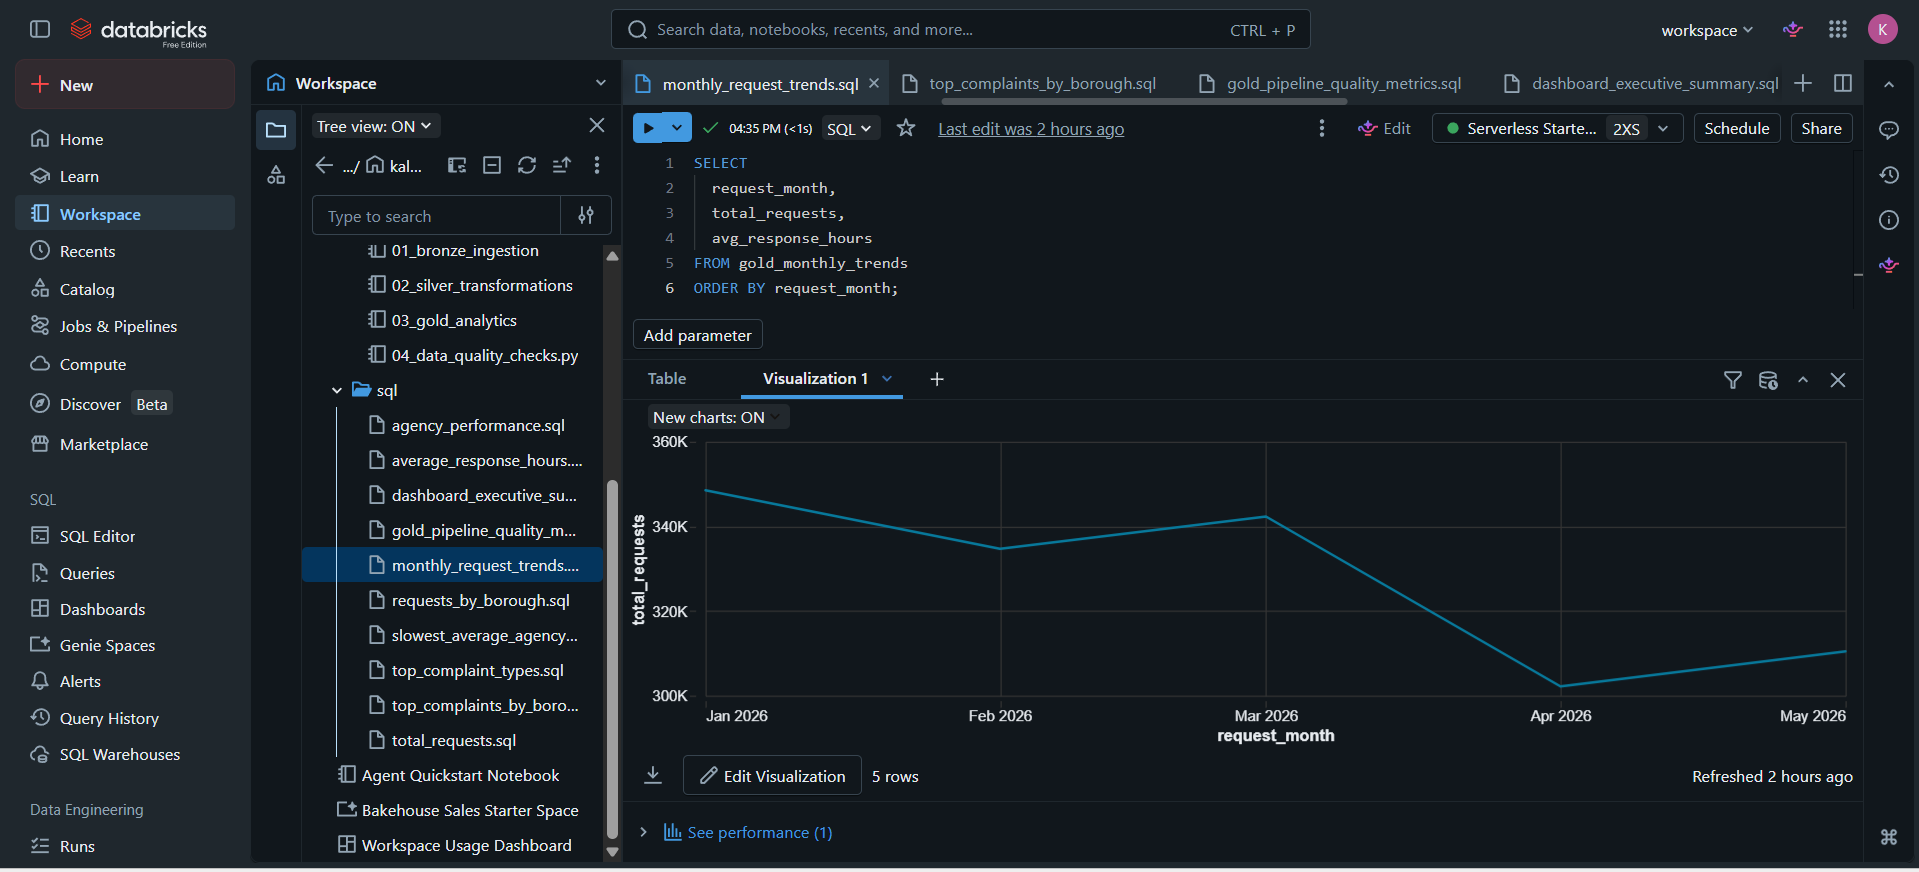
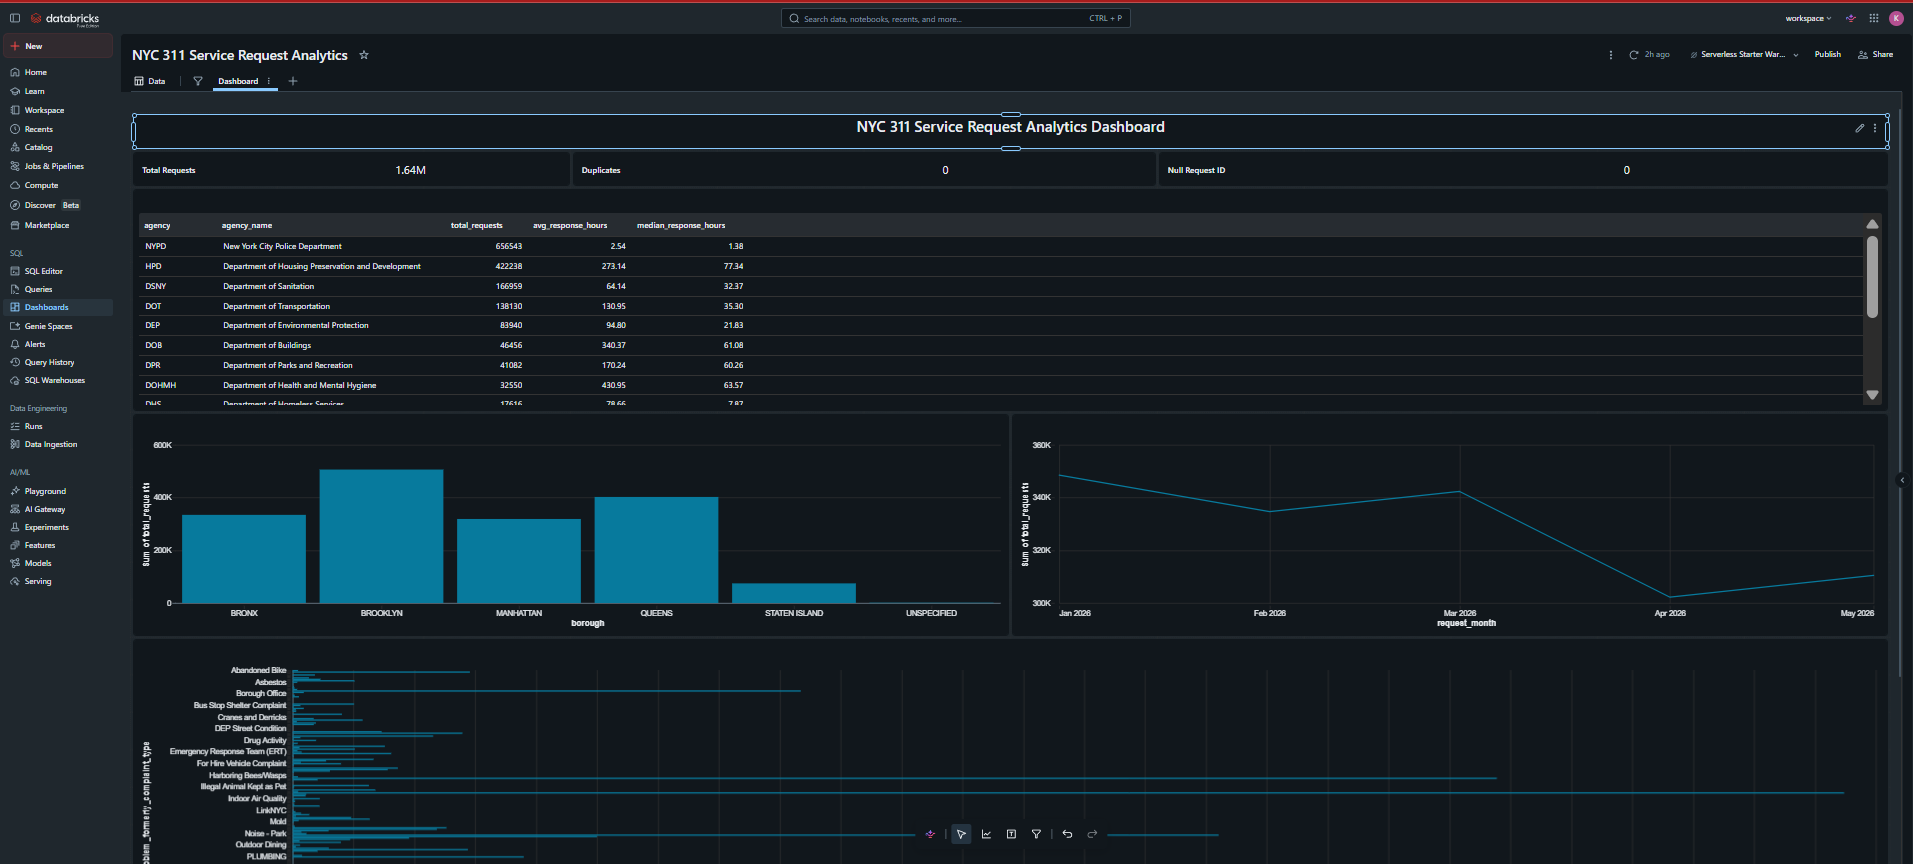
Update README with architecture diagram and dashboard assets

diff --git a/README.md b/README.md
@@ -61,6 +61,20 @@ NYC Open Data
 ![Dashboard](assets/dashboard.png)
 
 ---
+### Key Visualizations
+
+#### Monthly Request Trends
+![Monthly Request Trends](assets/monthly_requests_trends.png)
+
+#### Requests by Borough
+![Requests by Borough](assets/requests_by_borough.png)
+
+#### Top Complaint Types
+![Top Complaint Types](assets/top_complaint_type.png)
+
+#### Agency Performance
+![Agency Performance](assets/Agency_Performance.png)
+---
 
 ## Technology Stack
 
